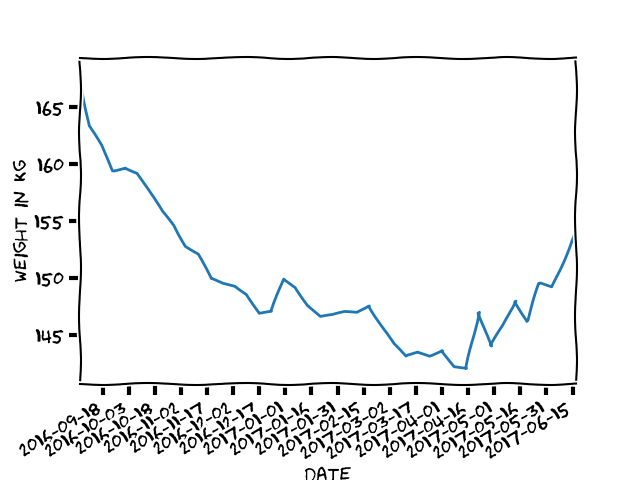
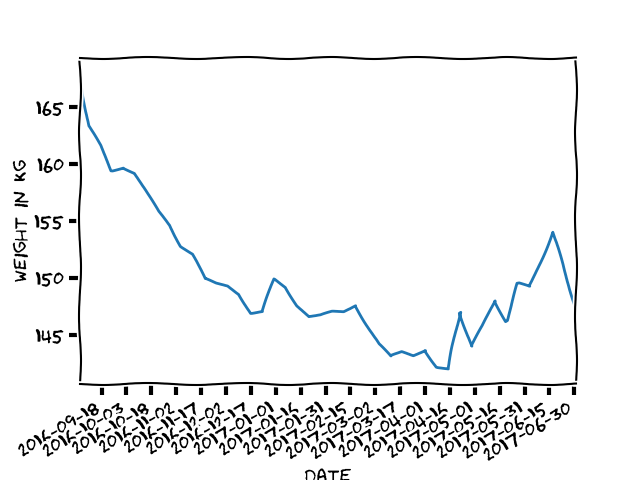
Week 27 update

diff --git a/index.html b/index.html
@@ -30,6 +30,22 @@
   </thead>
   <tbody>
     <tr>
+      <th>2017-07-01</th>
+      <td>147.5</td>
+      <td>-3.0</td>
+      <td>-20.5</td>
+      <td>44.0</td>
+      <td>1.8</td>
+    </tr>
+    <tr>
+      <th>2017-06-24</th>
+      <td>150.5</td>
+      <td>-3.5</td>
+      <td>-17.5</td>
+      <td>44.9</td>
+      <td>1.8</td>
+    </tr>
+    <tr>
       <th>2017-06-17</th>
       <td>154.0</td>
       <td>2.4</td>
